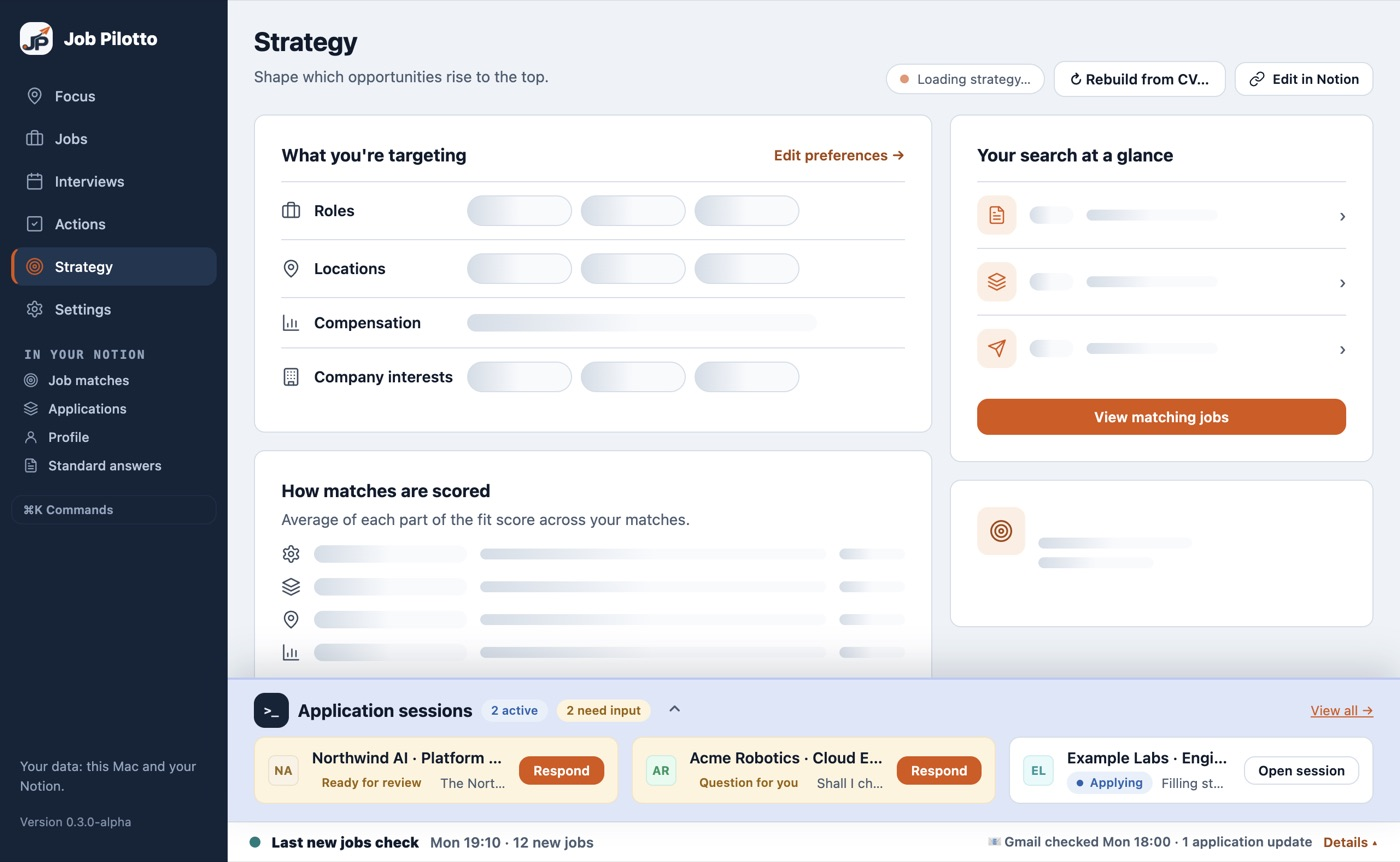
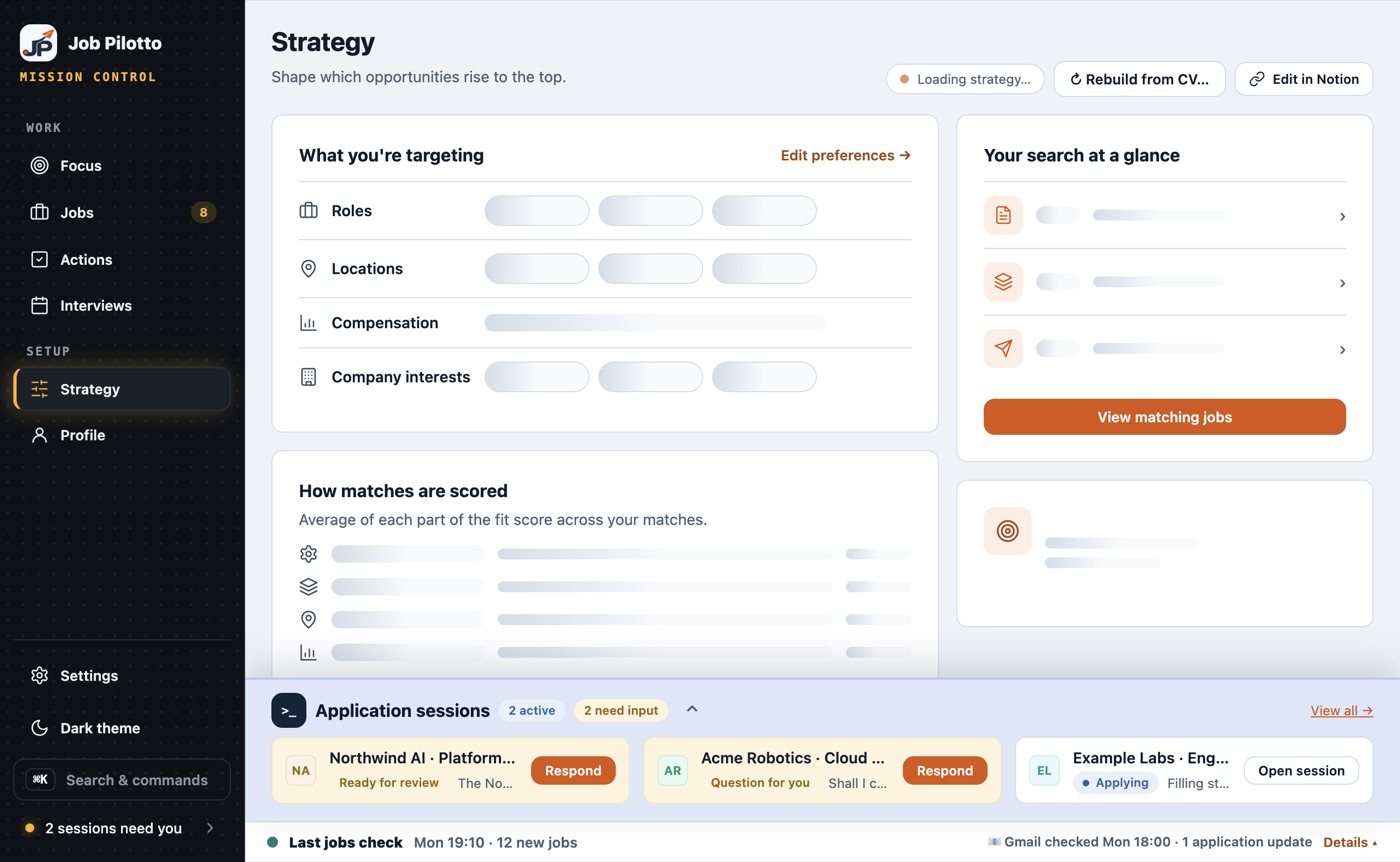
Desktop: lit start-here panels and a light/dark theme switch
The website's departures-hall look comes to the app, on top of the mission-control menu:
- .is-lit (components.css, gallery): dot grid, amber glow from the top-left, thin amber edge, for the one
  panel on a page that says "start here" (Focus → Up next, Settings → Appearance)

Dark theme:
- tokens.css has night values for every token; screens need no changes
- The menu's bottom group gets a one-click Dark theme / Light theme switch under Settings;
  Settings → Appearance has System / Light / Dark
- The choice sets Electron's theme source (main.js setTheme), so prefers-color-scheme follows it and the
  window background matches from the first frame; kept in the app's settings (a display preference of this
  Mac, not Notion data). JOB_PILOTTO_THEME=light|dark forces one for screenshots
- Company initials tiles take their lightness from tokens, so they read in both themes
- Reference screenshots refreshed

diff --git a/desktop/renderer/index.html b/desktop/renderer/index.html
@@ -257,6 +257,7 @@
     <div class="notion-links" id="notion-links" hidden></div>
     <div class="sidebar-bottom">
       <button class="nav" data-view="settings"><i data-icon="settings"></i>Settings</button>
+      <button class="theme-toggle" id="theme-toggle" title="Switch theme"><i data-icon="moon"></i><span id="theme-toggle-label">Dark theme</span></button>
       <button class="palette-hint" id="palette-hint" title="Search every command"><kbd>⌘K</kbd><span>Search &amp; commands</span></button>
       <button class="nav-sessions" data-view="sessions" id="nav-sessions" hidden><span class="nav-sessions-dot" id="nav-sessions-badge"></span><span id="nav-sessions-text"></span><i data-icon="chevron"></i></button>
     </div>
@@ -325,7 +326,7 @@
       </header>
       <div class="focus-grid">
         <div class="focus-main">
-          <section class="card">
+          <section class="card is-lit">
             <div class="focus-card-head"><h2 id="focus-up-title">Up next</h2>
               <span class="focus-head-side"><span class="muted small" id="focus-count-note"></span><button class="link" id="focus-history-toggle">History</button></span></div>
             <ol class="focus-list" id="focus-list"></ol>
@@ -640,6 +641,7 @@
           <button data-settings-go="automation"><i data-icon="clock"></i>Automation</button>
           <button data-settings-go="connections"><i data-icon="link"></i>Connections<span class="nav-dot" id="connections-dot" hidden></span></button>
           <button data-settings-go="data"><i data-icon="database"></i>Data &amp; backup</button>
+          <button data-settings-go="appearance"><i data-icon="sun"></i>Appearance</button>
           <button data-settings-go="advanced"><i data-icon="sliders"></i>Advanced</button>
         </nav>
         <div class="settings-pages">
@@ -941,6 +943,16 @@
             </div>
             <p class="muted small" id="reports-how-text" hidden>When the extension can't operate a form field (an unusual dropdown, a field that won't take the answer),
               that form's <b>structure</b> is sent (site, field labels, types, options) so it gets fixed. Never your answers or personal details.</p>
+          </div>
+        </div>
+        <div class="settings-page" data-settings-page="appearance" hidden>
+          <div class="settings-page-head"><h2>Appearance</h2><p class="muted">How Job Pilotto looks on this Mac.</p></div>
+          <div class="setting panel is-lit" id="setting-theme">
+            <div class="summary-head"><i data-icon="sun"></i><h3>Theme</h3></div>
+            <div class="segmented" role="group" aria-label="Theme">
+              <button data-theme-choice="system">System</button><button data-theme-choice="light">Light</button><button data-theme-choice="dark">Dark</button>
+            </div>
+            <p class="muted" id="theme-text"></p>
           </div>
         </div>
         <div class="settings-page" data-settings-page="advanced" hidden>

diff --git a/desktop/main.js b/desktop/main.js
@@ -1,5 +1,5 @@
 // Job Pilotto desktop app: a local-first cockpit for the job search. Data and keys stay on this Mac.
-import {app, BrowserWindow, clipboard, desktopCapturer, dialog, ipcMain, nativeImage, Notification, powerMonitor, safeStorage, session, shell, systemPreferences} from 'electron';
+import {app, BrowserWindow, clipboard, desktopCapturer, dialog, ipcMain, nativeImage, nativeTheme, Notification, powerMonitor, safeStorage, session, shell, systemPreferences} from 'electron';
 import Anthropic from '@anthropic-ai/sdk';
 import fs from 'node:fs';
 import path from 'node:path';
@@ -81,10 +81,21 @@ function openNotion(url) {
   notionWindow.focus();
 }
 
+// Theme (Settings → Appearance): 'system', 'light' or 'dark'. Electron's theme source makes the window's
+// prefers-color-scheme follow it, so tokens.css switches; the window's own background matches (no flash).
+// JOB_PILOTTO_THEME=light|dark forces one (screenshots of the dark screens in demo mode).
+function applyTheme(value) {
+  const theme = ['light', 'dark'].includes(value) ? value : 'system';
+  nativeTheme.themeSource = theme;
+  if (window && !window.isDestroyed()) window.setBackgroundColor(windowBackground());
+  return theme;
+}
+function windowBackground() { return nativeTheme.shouldUseDarkColors ? '#0b1016' : '#eef3f7'; }
+
 function createWindow() {
   window = new BrowserWindow({
     width: 1280, height: 820, minWidth: 1024, minHeight: 640, title: 'Job Pilotto', show: !process.env.JOB_PILOTTO_SMOKE,
-    backgroundColor: '#eef3f7',
+    backgroundColor: windowBackground(),
     webPreferences: {preload: path.join(here, 'preload.cjs'), contextIsolation: true, sandbox: true, nodeIntegration: false},
   });
   // Demo mode can open another page of the app instead, e.g. the component gallery (npm run gallery).
@@ -653,6 +664,7 @@ function handlers() {
     fs.mkdirSync(storage.path('recordings'), {recursive: true});
     return shell.openPath(storage.path('recordings'));
   });
+  ipcMain.handle('setTheme', (_, value) => { const theme = applyTheme(value); storage.saveSettings({theme}); return theme; });
   ipcMain.handle('setAutomation', (_, patch) => {
     const allowed = {};
     if ('autoSearch' in patch) allowed.autoSearch = !!patch.autoSearch;
@@ -1002,6 +1014,7 @@ if (firstCopy) app.whenReady().then(() => {
   if (!app.isPackaged) app.dock?.setIcon(path.join(here, 'assets', 'icon.png'));
   logTo(path.join(app.getPath('userData'), 'logs'));
   storage = createStorage(app.getPath('userData'), DEMO ? {encrypt: value => value, decrypt: value => value} : safeStorageCrypto(safeStorage));
+  applyTheme(process.env.JOB_PILOTTO_THEME || storage.settings().theme);
   reset.adoptKeys(storage);  // keys that came with an import: stored encrypted, plain file deleted
   pipeline.ensureConfig(storage);
   handlers();

diff --git a/desktop/renderer/tokens.css b/desktop/renderer/tokens.css
@@ -80,9 +80,59 @@
   /* Space: 4px steps */
   --sp-1: 4px; --sp-2: 8px; --sp-3: 12px; --sp-4: 16px; --sp-5: 24px; --sp-6: 32px;
 
+  /* Lit panels (the website's departures-hall look): a dot grid, an amber glow from one corner, a thin amber edge.
+     .is-lit in components.css. */
+  --lit-dots: rgb(var(--shadow-rgb) / .08);
+  --lit-glow: rgb(255 178 36 / .24);
+  /* Company initials tiles: one hue per company, these lightnesses */
+  --logo-ink-l: 36%; --logo-bg-l: 94%; --logo-line-l: 86%;
+  --lit-line: rgb(var(--signal-rgb) / .32);
+
   /* Motion */
   --ease: cubic-bezier(.2, .8, .2, 1);
 
   font: var(--fs-base)/1.5 var(--font-sans);
   color: var(--ink);
+}
+
+/* Dark theme: the same tokens, night values. It follows the theme picked in Settings → Appearance
+   (System / Light / Dark); the app sets Electron's theme source, so this media query follows that choice. */
+@media (prefers-color-scheme: dark) {
+  :root {
+    color-scheme: dark;
+    --bg: #0b1016;
+    --surface: #121a23;
+    --surface-2: #17212c;
+    --ink: #e8ecf0;
+    --ink-2: #c3ccd6;
+    --muted: #93a1b0;
+    --line: #223040;
+    --line-strong: #2f3f51;
+
+    --navy: #0d131a;
+    --navy-hover: #16202b;
+    --navy-active: #1b2735;
+    --navy-line: #2f3f51;
+
+    --signal: #e8661b;
+    --signal-rgb: 232 102 27;
+    --signal-ink: #ffab76;
+    --signal-soft: #2a1a10;
+    --signal-line: #5c3218;
+    --teal: #2aa79c;
+    --teal-soft: #0f2a2a;
+    --teal-line: #1f5553;
+
+    --good: #5fd39a;  --good-soft: #0f2a1d;
+    --warn: #f0b44b;  --warn-soft: #2a2211;  --warn-line: #4d3d17;
+    --bad: #f07a70;   --bad-soft: #2e1514;   --bad-line: #5c2622;
+    --info: #7aa7ec;  --info-soft: #122238;  --info-line: #2a4a7a;
+    --violet: #a996ec; --violet-soft: #1d1733;
+
+    --shadow-rgb: 0 0 0;
+    --lit-dots: rgb(255 255 255 / .05);
+    --lit-glow: rgb(255 178 36 / .17);
+    --logo-ink-l: 74%; --logo-bg-l: 17%; --logo-line-l: 28%;
+    --lit-line: rgb(255 178 36 / .32);
+  }
 }

diff --git a/desktop/renderer/pages/theme.js b/desktop/renderer/pages/theme.js
@@ -1,0 +1,36 @@
+// Theme: System / Light / Dark (Settings → Appearance) and the sidebar's one-click switch.
+// The app sets Electron's theme source (main.js setTheme), so prefers-color-scheme and tokens.css follow the choice.
+// A display preference of this Mac: kept in the app's settings, not in Notion.
+import {icon} from '../icons.js';
+import {shared} from './shared.js';
+import {$} from './core.js';
+
+const dark = matchMedia('(prefers-color-scheme: dark)');
+const TEXT = {system: 'Follows your Mac: light by day, dark at night if macOS switches.', light: 'Always light.', dark: 'Always dark, like the departures hall.'};
+let choice = 'system';
+
+function paint() {
+  document.querySelectorAll('[data-theme-choice]').forEach(button => button.classList.toggle('is-active', button.dataset.themeChoice === choice));
+  const text = $('theme-text');
+  if (text) text.textContent = TEXT[choice];
+  const toggle = $('theme-toggle');
+  if (!toggle) return;
+  const next = dark.matches ? 'light' : 'dark';
+  toggle.querySelector('svg')?.replaceWith(icon(next === 'dark' ? 'moon' : 'sun'));
+  $('theme-toggle-label').textContent = next === 'dark' ? 'Dark theme' : 'Light theme';
+  toggle.title = `Switch to the ${next} theme`;
+}
+
+async function pick(value) {
+  choice = await window.pilot.setTheme(value);
+  if (shared.state?.settings) shared.state.settings.theme = choice;
+  paint();
+}
+
+export async function init() {
+  choice = shared.state?.settings?.theme || 'system';
+  document.querySelectorAll('[data-theme-choice]').forEach(button => button.addEventListener('click', () => pick(button.dataset.themeChoice)));
+  $('theme-toggle')?.addEventListener('click', () => pick(dark.matches ? 'light' : 'dark'));
+  dark.addEventListener('change', paint);
+  paint();
+}

diff --git a/desktop/renderer/components.css b/desktop/renderer/components.css
@@ -306,3 +306,20 @@ button.secondary.is-signal { color: var(--signal-ink); border-color: var(--signa
 /* Warnings of a run, shown above its technical log (Recent activity). */
 .activity-warnings { margin: var(--sp-2) 0; }
 .activity-warnings ul { margin: var(--sp-1) 0 0; padding-left: var(--sp-5); }
+
+/* Lit panel: the website's departures-hall look. A dot grid, an amber glow from the top-left corner and a thin
+   amber edge, on a card (.card.is-lit) or any panel. Use it for the one thing on a page that says "start here". */
+/* Also .card/.panel.is-lit: those set their own background later in style.css, so the pair wins. */
+.is-lit, .card.is-lit, .panel.is-lit {
+  border: 1px solid var(--lit-line);
+  background: radial-gradient(70% 90% at 0% 0%, var(--lit-glow), transparent 60%),
+              var(--surface) radial-gradient(var(--lit-dots) 1px, transparent 1.4px) 0 0 / 16px 16px;
+}
+
+/* Theme switch in the sidebar: one click flips light ↔ dark (Settings → Appearance also has System). */
+.theme-toggle { -webkit-app-region: no-drag; display: flex; align-items: center; gap: 10px; width: 100%; padding: 10px 12px; border: 1px solid transparent;
+  border-left-width: 3px; border-radius: var(--r-md); background: transparent; color: var(--on-rail); font: 600 var(--fs-md) var(--font-sans); cursor: pointer; text-align: left; }
+.theme-toggle .icon { width: 18px; height: 18px; color: var(--on-rail); }
+.theme-toggle:hover { background: var(--rail-hover); }
+.theme-toggle:hover .icon { color: var(--amber); }
+#setting-theme { display: grid; gap: var(--sp-3); justify-items: start; }

diff --git a/desktop/renderer/style.css b/desktop/renderer/style.css
@@ -398,7 +398,7 @@ button.with-icon .icon { width: 15px; height: 15px; }
 .company { display: flex; align-items: center; gap: 8px; min-height: 28px; }
 .company .name { font-weight: 600; font-size: var(--fs-md); line-height: 1.25; min-width: 0; overflow-wrap: break-word; }
 .logo { --hue: 200; width: 28px; height: 28px; flex: none; border-radius: var(--r-sm); display: grid; place-items: center; font: 700 var(--fs-xs) var(--font-sans);
-  color: hsl(var(--hue) 65% 36%); background: hsl(var(--hue) 70% 94%); border: 1px solid hsl(var(--hue) 50% 86%); }
+  color: hsl(var(--hue) 65% var(--logo-ink-l)); background: hsl(var(--hue) 70% var(--logo-bg-l)); border: 1px solid hsl(var(--hue) 50% var(--logo-line-l)); }
 .place { display: grid; gap: 5px; padding-top: 4px; font-size: var(--fs-sm); }
 .place-line { display: flex; align-items: flex-start; gap: 7px; min-width: 0; }
 .place-line .icon { width: 14px; height: 14px; color: var(--muted); margin-top: 1px; }
@@ -1170,5 +1170,6 @@ main { min-width: 0; }
   .sidebar-bottom { align-items: center; width: 100%; }
   .nav-sessions { font-size: 0; gap: 0; justify-content: center; width: 48px; padding: 12px 0; }
   .nav-sessions .icon { display: none; }
+  .theme-toggle { font-size: 0; gap: 0; justify-content: center; width: 48px; padding: 12px 0; }
   .nav-count { position: absolute; top: 2px; right: 2px; }
 }

diff --git a/desktop/renderer/gallery.js b/desktop/renderer/gallery.js
@@ -55,6 +55,13 @@ section('Tags', 'tag(text, {title, onClick, busy})', row(
   tag('Kubernetes'), tag('Observability'), tag('+3', {title: 'AWS, Go, Linux'}), tag('📝 Kit', {onClick: () => {}}),
   tag('📄 Tailored CV', {onClick: () => {}}), tag('✂ Tailoring CV…', {busy: true})));
 
+section('Lit panel', '.is-lit (also .card.is-lit, .panel.is-lit): dot grid, amber glow from the top-left, thin amber edge. The one thing on a page that says "start here"', (() => {
+  const box = document.createElement('div');
+  box.className = 'card is-lit';
+  box.style.padding = 'var(--sp-5)';
+  box.innerHTML = '<h3>Up next</h3><p class="muted">Lit like the website\'s departures hall. Used by the sidebar, Focus → Up next and Settings → Appearance.</p>';
+  return box;
+})());
 section('Tiles', 'tile(icon, tone)', row(tile('mic'), tile('file', 'teal'), tile('search', 'info'), tile('mail', 'info'), tile('check', 'good'), tile('shield', 'warn')));
 
 section('Dialog parts', '.panel-dialog with .dialog-head / .dialog-lead / .dialog-foot; .composer + .tool; .attachment + .soft-button; .select-search; .check-row', (() => {

diff --git a/desktop/renderer/icons.js b/desktop/renderer/icons.js
@@ -43,6 +43,8 @@ const PATHS = {
   upload:'<path d="M21 15v4a2 2 0 0 1-2 2H5a2 2 0 0 1-2-2v-4"/><path d="m17 8-5-5-5 5M12 3v12"/>',
   refresh: '<path d="M3 12a9 9 0 0 1 9-9 9.75 9.75 0 0 1 6.74 2.74L21 8"/><path d="M21 3v5h-5M21 12a9 9 0 0 1-9 9 9.75 9.75 0 0 1-6.74-2.74L3 16"/><path d="M8 16H3v5"/>',
   folder: '<path d="M20 20a2 2 0 0 0 2-2V8a2 2 0 0 0-2-2h-7.9a2 2 0 0 1-1.69-.9L9.6 3.9A2 2 0 0 0 7.93 3H4a2 2 0 0 0-2 2v13a2 2 0 0 0 2 2Z"/>',
+  sun: '<circle cx="12" cy="12" r="4"/><path d="M12 2v2M12 20v2M4.93 4.93l1.41 1.41M17.66 17.66l1.41 1.41M2 12h2M20 12h2M6.34 17.66l-1.41 1.41M19.07 4.93l-1.41 1.41"/>',
+  moon: '<path d="M12 3a6 6 0 0 0 9 9 9 9 0 1 1-9-9Z"/>',
   shield: '<path d="M20 13c0 5-3.5 7.5-7.66 8.95a1 1 0 0 1-.67-.01C7.5 20.5 4 18 4 13V6a1 1 0 0 1 1-1c2 0 4.5-1.2 6.24-2.72a1.17 1.17 0 0 1 1.52 0C14.51 3.81 17 5 19 5a1 1 0 0 1 1 1z"/><path d="m9 12 2 2 4-4"/>',
 };
 

diff --git a/desktop/renderer/app.js b/desktop/renderer/app.js
@@ -8,6 +8,7 @@ import {init as wizard} from './pages/wizard.js';
 import {init as activity} from './pages/activity.js';
 import {init as strategyReview} from './pages/strategy-review.js';
 import {init as settings} from './pages/settings.js';
+import {init as theme} from './pages/theme.js';
 import {init as nav} from './pages/nav.js';
 import {init as jobs} from './pages/jobs.js';
 import {init as strategy} from './pages/strategy.js';
@@ -30,6 +31,7 @@ await wizard();
 await activity();
 await strategyReview();
 await settings();
+await theme();
 await nav();
 await jobs();
 await strategy();
